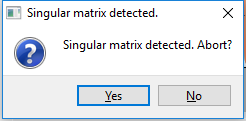
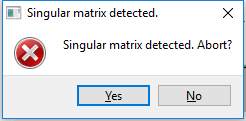
Changed message box to critical error box when singular matrix is detected

Changed region(s): [[0.9675, 0.0, 1.0, 0.5702], [0.0569, 0.3223, 0.1992, 0.5702]]

diff --git a/CarbonXS_GUI.py b/CarbonXS_GUI.py
@@ -221,7 +221,7 @@ class MainWindow(QtGui.QMainWindow, Ui_MainWindow):
 
         # if a singular matrix is detected raise the option to abort the fit.
         if "Singular matrix." in message:
-            reply = QtGui.QMessageBox.question(self, 'Singular matrix detected.',
+            reply = QtGui.QMessageBox.critical(self, 'Singular matrix detected.',
                                                "Singular matrix detected. Abort?", QtGui.QMessageBox.Yes |
                                                QtGui.QMessageBox.No, QtGui.QMessageBox.Yes)
 
